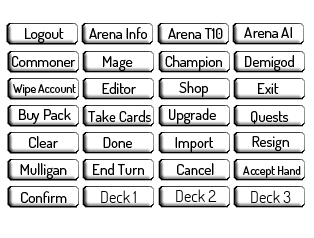
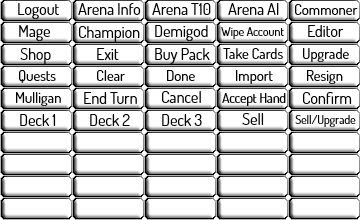
"Fixed" buttons, finally, so they are one sheet only. Added Sell feature in the upgrade screen.

diff --git a/ui.main.js b/ui.main.js
@@ -1197,16 +1197,13 @@ var buttonsList = [];
 var buttonsClicked = [];
 var buttonsMouseOver = [];
 var buttons = {};
-var buttonLoader = new PIXI.AssetLoader(["assets/buttons.png", "assets/buttons_mouseover.png", "assets/buttons_clicked.png"]);
+var buttonLoader = new PIXI.AssetLoader(["assets/buttons.png"]);
 buttonLoader.onComplete = function() {
 	var tex = PIXI.Texture.fromImage("assets/buttons.png");
-	var texClick = PIXI.Texture.fromImage("assets/buttons_clicked.png");
-	var texOver = PIXI.Texture.fromImage("assets/buttons_mouseover.png");
-	for (var i = 0;i < 7;i++) {
-		for (var j = 0;j < 4;j++) {
-			buttonsList.push(new PIXI.Texture(tex, new PIXI.Rectangle(j * 75 + 7, i * 28 + 19, 75, 25)));
-			buttonsMouseOver.push(new PIXI.Texture(texOver, new PIXI.Rectangle(j * 75 + 7, i * 28 + 19, 75, 25)));
-			buttonsClicked.push(new PIXI.Texture(texClick, new PIXI.Rectangle(j * 75 + 7, i * 28 + 19, 75, 25)));
+	for (var i = 0;i < 10;i++) {
+		for (var j = 0;j < 5;j++) {
+			buttonsList.push(new PIXI.Texture(tex, new PIXI.Rectangle(j * 72, i * 22, 72, 22)));
+			console.log(i +", " + j)
 		}
 	}
 	buttons = {
@@ -1237,7 +1234,9 @@ buttonLoader.onComplete = function() {
 		confirm: buttonsList[24],
 		deck1: buttonsList[25],
 		deck2: buttonsList[26],
-		deck3: buttonsList[27]
+		deck3: buttonsList[27],
+		sell: buttonsList[28],
+		sellupgrade: buttonsList[29]
 	}
 	maybeStartMenu();
 }
@@ -1287,14 +1286,14 @@ function makeButton(x, y, w, h, i, mouseoverfunc) {
 	b.standardImage = i;
 	if (~buttonsList.indexOf(i)) {
 		b.mousedown = function() {
-			b.setTexture(buttonArtClicked(b.standardImage));
+			b.tint = 0x666666;
 		}
 		b.mouseover = b.mouseup = function() {
 			if (mouseoverfunc) mouseoverfunc();
-			b.setTexture(buttonArtMouseover(b.standardImage));
+			b.tint = 0xAAAAAA;
 		}
 		b.mouseout = function() {
-			b.setTexture(b.standardImage);
+			b.tint = 0xFFFFFF;
 		}
 	}
 
@@ -1471,8 +1470,8 @@ function startMenu() {
 	menuui.addChild(bshop);
 
 	//upgrade button
-	var bupgrade = makeButton(250, 300, 75, 18, buttons.upgrade, function() {
-		tinfo.setText("Here you can upgrade cards as well as buy upgraded Pillars");
+	var bupgrade = makeButton(250, 300, 75, 18, buttons.sellupgrade, function() {
+		tinfo.setText("Here you can upgrade or sell your cards.");
 		tcost.setText("");
 	});
 	bupgrade.click = upgradestore;
@@ -1696,6 +1695,23 @@ function upgradestore() {
 		}
 		else twarning.setText("You can't upgrade an already upgraded card!");
 	}
+	cardValues = [5, 1, 3, 15, 20];
+	function sellCard(card) {
+		if (card.rarity != 0 || card.upped) {
+			if (card.rarity <= 4) {
+				if (cardpool[card.code] > 0) {
+					user.pool.splice(user.pool.indexOf(card.code), 1);
+					sellValue = cardValues[card.rarity];
+					if (card.upped) sellValue *= 5;
+					user.gold += sellValue
+					userEmit("sellcard", { card: card.code, gold: sellValue});
+					adjustdeck();
+				}
+			}
+			else twarning.setText("You really don't want to sell that, trust me.")
+		}
+		else twarning.setText("You can't sell a pillar or pendulum, silly!")
+	}
 	function adjustdeck() {
 		cardpool = {};
 		for (var i = 0;i < user.pool.length;i++) {
@@ -1713,21 +1729,29 @@ function upgradestore() {
 	var goldcount = new PIXI.Text(user.gold + "g", { font: "bold 16px Dosis" });
 	goldcount.position.set(30, 100);
 	upgradeui.addChild(goldcount);
-	var bupgrade = makeButton(150, 100, 75, 18, buttons.upgrade);
+	var bupgrade = makeButton(150, 80, 75, 18, buttons.upgrade);
 	bupgrade.click = function() {
 		upgradeCard(CardCodes[selectedCard]);
 	};
 	upgradeui.addChild(bupgrade);
-	var bexit = makeButton(50, 50, 75, 18, buttons.exit);
+	var bsell = makeButton(150, 140, 75, 18, buttons.sell);
+	bsell.click = function() {
+		sellCard(CardCodes[selectedCard]);
+	};
+	upgradeui.addChild(bsell);
+	var bexit = makeButton(5, 50, 75, 18, buttons.exit);
 	bexit.click = function() {
 		startMenu();
 	};
 	upgradeui.addChild(bexit);
 	var tinfo = new PIXI.Text("", { font: "bold 16px Dosis" });
-	tinfo.position.set(130, 120);
+	tinfo.position.set(150, 102);
 	upgradeui.addChild(tinfo);
+	var tinfo2 = new PIXI.Text("", { font: "bold 16px Dosis" });
+	tinfo2.position.set(150, 162);
+	upgradeui.addChild(tinfo2);
 	var twarning = new PIXI.Text("", { font: "bold 16px Dosis" });
-	twarning.position.set(100, 70);
+	twarning.position.set(100, 50);
 	upgradeui.addChild(twarning);
 
 	var editorcolumns = [];
@@ -1759,11 +1783,16 @@ function upgradestore() {
 			sprite.addChild(sprcount);
 			(function(_i, _j) {
 				sprite.click = function() {
-				    selectedCard = mouseovercode;
-                    upgradedCard = CardCodes[mouseovercode].asUpped(true).code
-				    if (isFreeCard(CardCodes[mouseovercode]))
+					selectedCard = mouseovercode;
+					var card = CardCodes[mouseovercode]
+                    upgradedCard = card.asUpped(true).code
+                    if (isFreeCard(card))
 						tinfo.setText("Costs 50 gold to upgrade");
-					else tinfo.setText("Convert 6 of these into an upgraded version.");
+				    else tinfo.setText("Convert 6 of these into an upgraded version.");
+                    if ((card.rarity > 0 || card.upped) && card.rarity < 5)
+                    	tinfo2.setText("Sells for " + (card.upped ? cardValues[card.rarity]*5 : cardValues[card.rarity]) + " gold.")
+				    else
+						tinfo2.setText("")
 					twarning.setText("");
 				}
 				sprite.mouseover = function() {

diff --git a/server.js b/server.js
@@ -279,6 +279,10 @@ io.on("connection", function(socket) {
 			user.ocard = data.o;
 		}
 	});
+	userEvent(socket, "sellcard", function(data, user) {
+		user.pool = etgutil.addcard(user.pool, data.card, -1);
+		user.gold += data.gold;
+	})
 	userEvent(socket, "subgold", function (data, user) {
 	    user.gold -= data.g;
 	});
